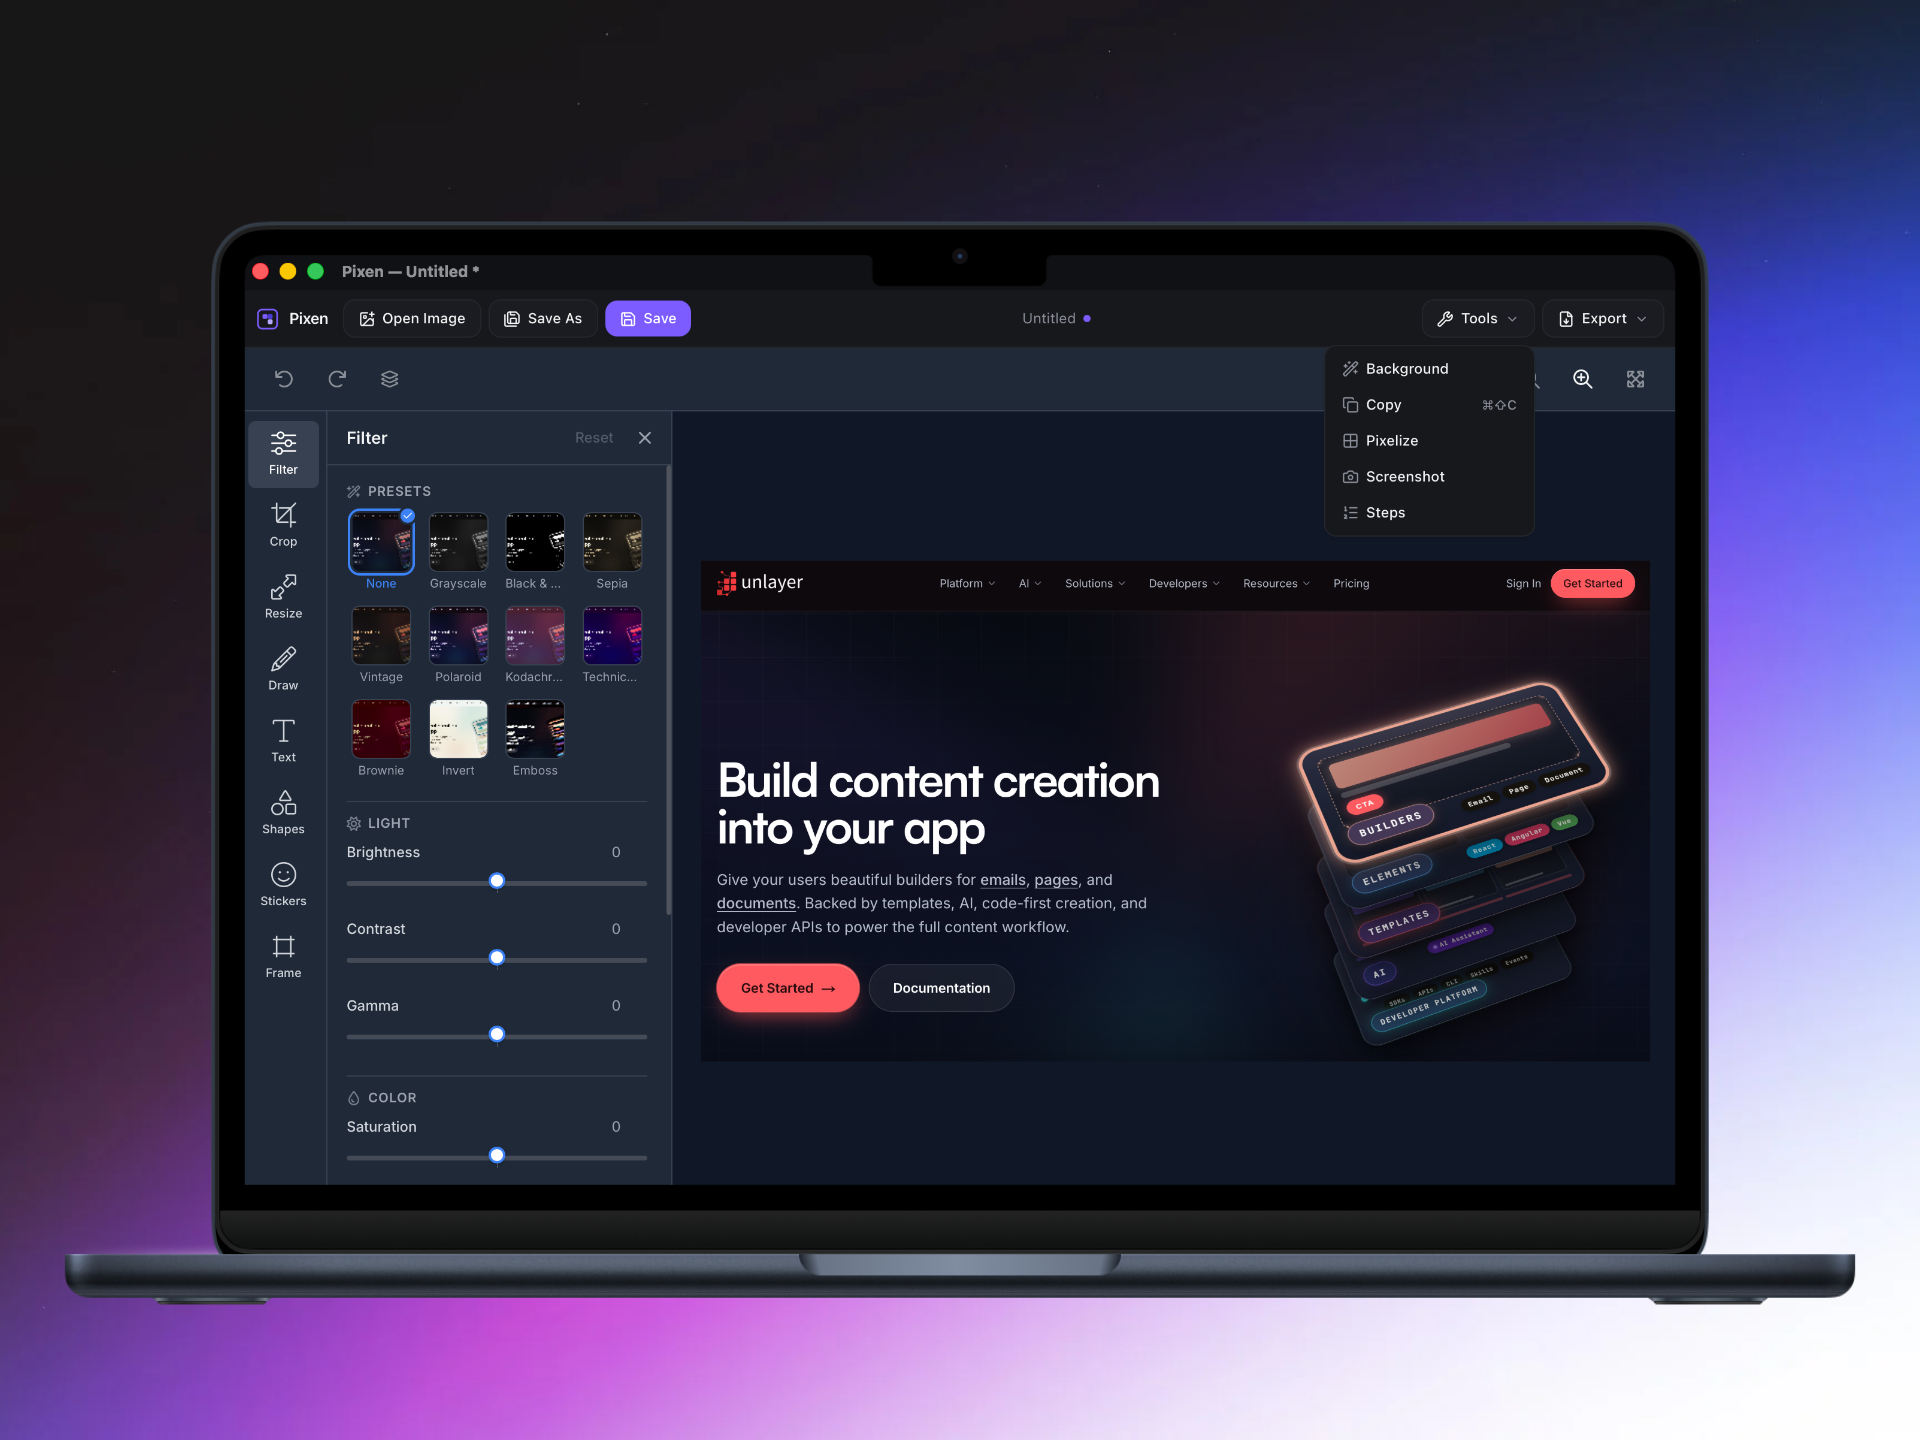
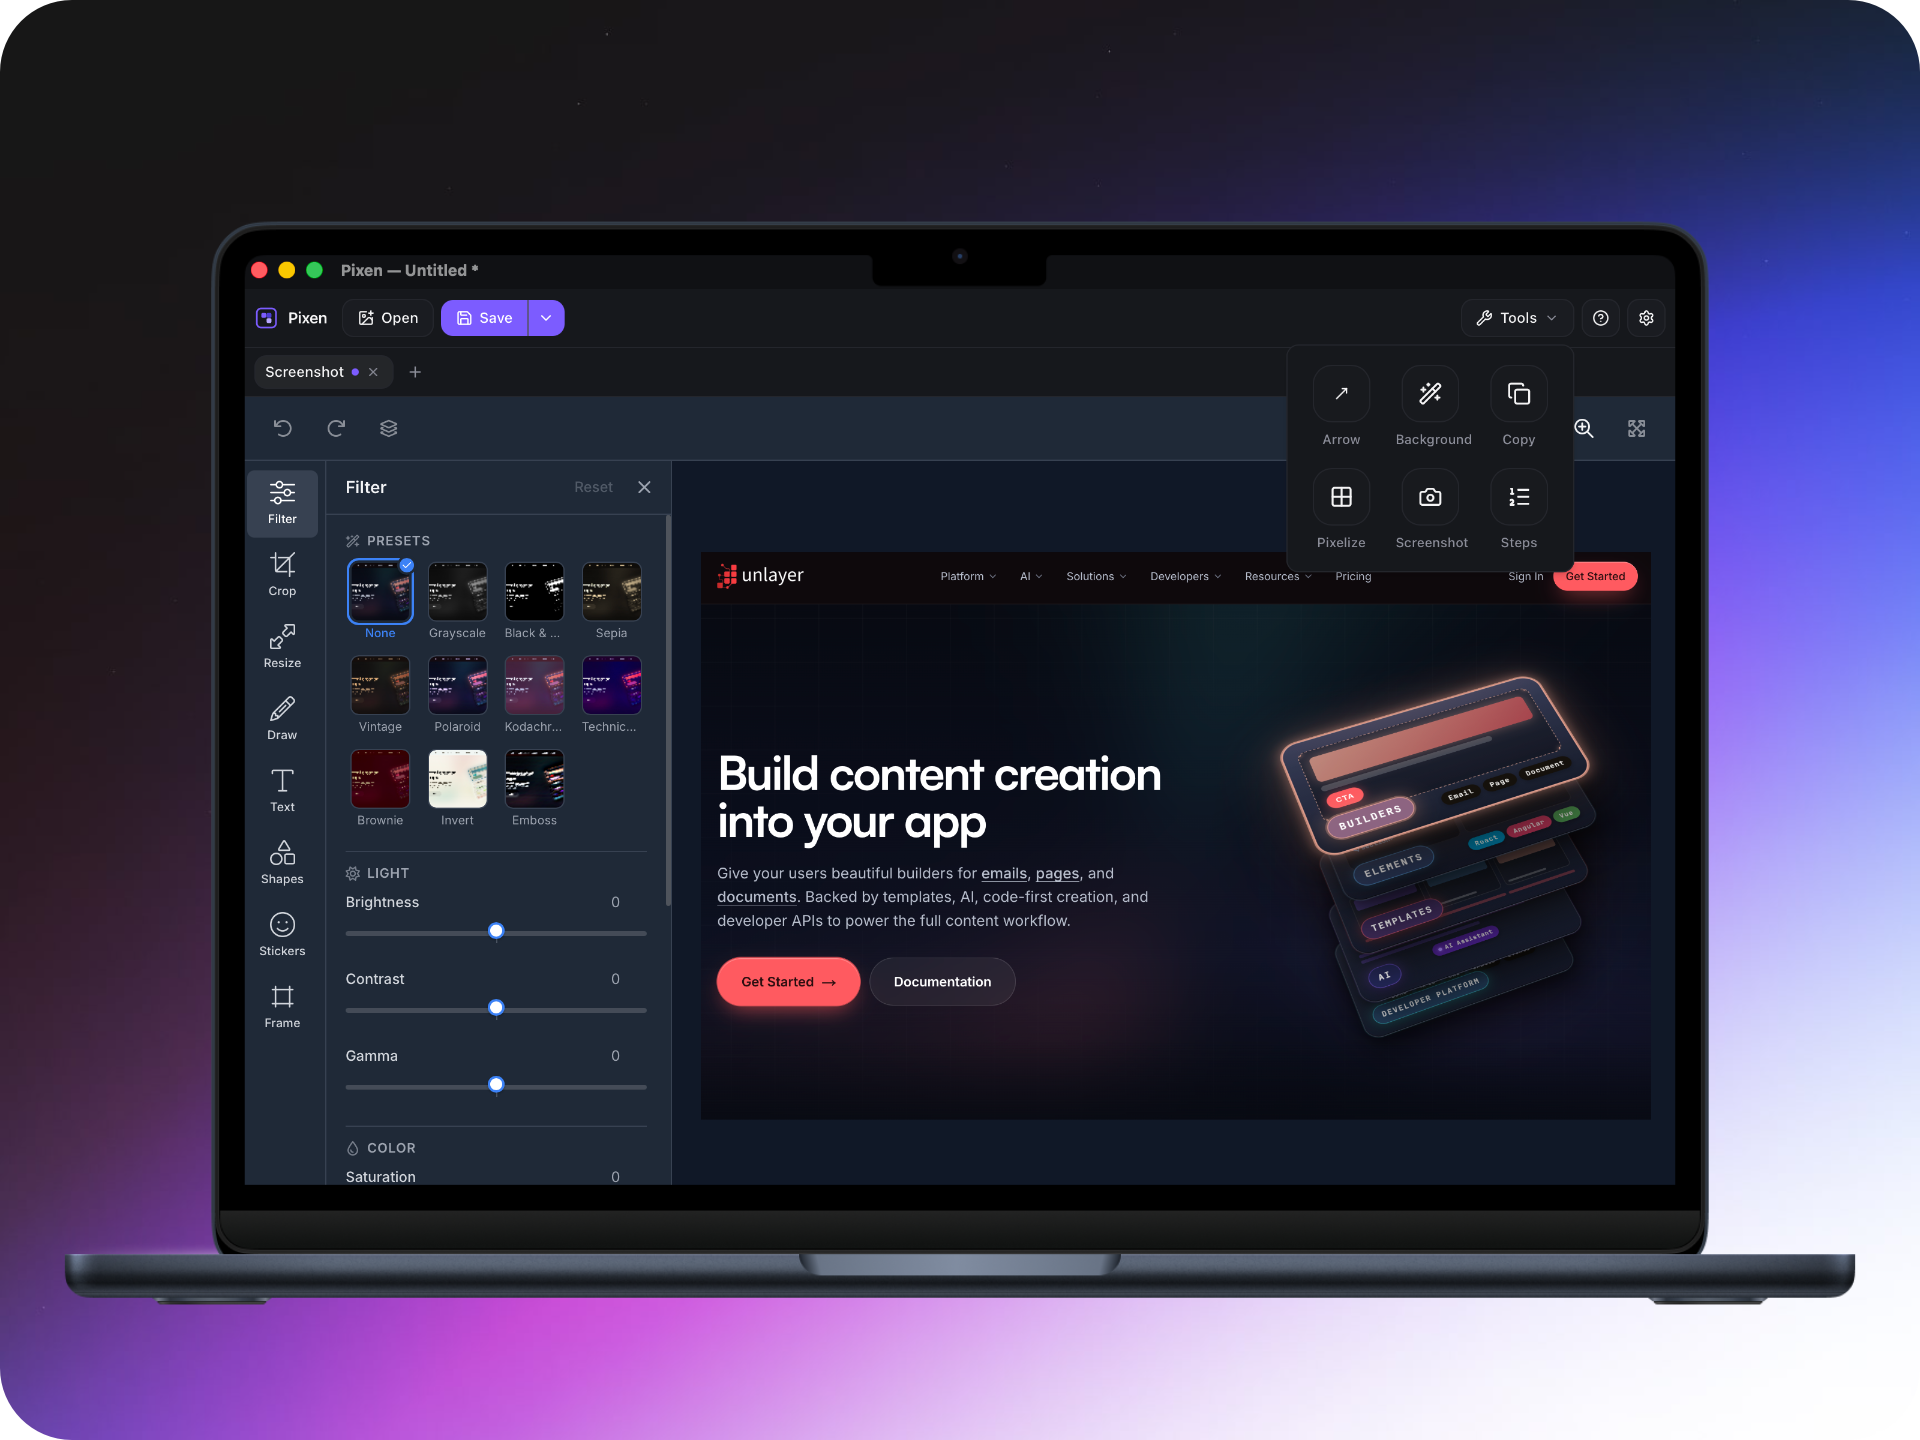
feat(pixen): enhance screenshot editing with new features and UI updates

diff --git a/src/components/apps/AppHero.tsx b/src/components/apps/AppHero.tsx
@@ -1,10 +1,17 @@
 import Image from 'next/image'
 
-import { DownloadIcon, ExternalLinkIcon, FileTextIcon, GithubIcon } from '@/components/shared/Icons'
+import {
+  DownloadIcon,
+  ExternalLinkIcon,
+  FileTextIcon,
+  GithubIcon,
+  StoreIcon,
+} from '@/components/shared/Icons'
 import { LinkButton } from '@/components/shared/LinkButton'
 import type { App } from '@/lib/apps'
 
 const linkIcons: Record<string, React.ElementType> = {
+  'App Store': StoreIcon,
   Download: DownloadIcon,
   Source: GithubIcon,
   'How it works': FileTextIcon,
@@ -43,7 +50,7 @@ export const AppHero = ({ app }: AppHeroProps) => {
           {app.platforms.map((platform) => (
             <Tag key={platform}>{platform}</Tag>
           ))}
-          <Tag>{app.isPaid ? 'Paid' : 'Free'}</Tag>
+          <Tag>{app.priceLabel ?? (app.isPaid ? 'Paid' : 'Free')}</Tag>
           {app.isMenuBarApp && <Tag>Menu bar</Tag>}
         </div>
 
@@ -51,7 +58,13 @@ export const AppHero = ({ app }: AppHeroProps) => {
       </div>
 
       {links.length > 0 && (
-        <div className="grid w-full grid-cols-2 gap-4 sm:grid-cols-3">
+        <div
+          className={
+            links.length >= 4
+              ? 'grid w-full grid-cols-2 gap-4'
+              : 'grid w-full grid-cols-2 gap-4 sm:grid-cols-3'
+          }
+        >
           {links.map(([title, href]) => {
             const Icon = linkIcons[title] ?? ExternalLinkIcon
 
@@ -66,6 +79,10 @@ export const AppHero = ({ app }: AppHeroProps) => {
             )
           })}
         </div>
+      )}
+
+      {app.priceNote && (
+        <p className="max-w-md text-sm text-balance text-muted-foreground">{app.priceNote}</p>
       )}
     </div>
   )

diff --git a/src/styles/prose.css b/src/styles/prose.css
@@ -48,6 +48,11 @@
   font-size: 0.9em;
 }
 
+.prose img {
+  border: 1px solid var(--border);
+  border-radius: var(--radius-xl);
+}
+
 /* GitHub-style alerts from remark-github-blockquote-alert. */
 .prose .markdown-alert {
   background-color: var(--muted);

diff --git a/src/lib/apps.ts b/src/lib/apps.ts
@@ -12,6 +12,8 @@ export interface AppFrontmatter {
   platforms: string[]
   requirement?: string
   isPaid?: boolean
+  priceLabel?: string
+  priceNote?: string
   isMenuBarApp?: boolean
   repoUrl?: string
   mainLinks?: Record<string, string>

diff --git a/src/components/shared/Icons.tsx b/src/components/shared/Icons.tsx
@@ -8,6 +8,7 @@ import {
   MailIcon,
   QuoteIcon,
   SendIcon,
+  StoreIcon,
   XIcon,
 } from 'lucide-react'
 
@@ -96,6 +97,7 @@ export {
   MailIcon,
   QuoteIcon,
   SendIcon,
+  StoreIcon,
   XIcon,
   XTwitterIcon,
 }

diff --git a/src/content/apps/pixen.md b/src/content/apps/pixen.md
@@ -1,11 +1,12 @@
 ---
 title: Pixen
-subtitle: An open-source desktop image editor, ideal for screenshots
+subtitle: Capture, edit, and refine screenshots on your Mac.
 pubDate: '2026-08-29'
 platforms:
   - macOS
 requirement: Requires macOS 10.15 or later
-isPaid: false
+priceLabel: Paid or free
+priceNote: The App Store version is paid. The GitHub .dmg is free and unsigned.
 isMenuBarApp: true
 repoUrl: https://github.com/brenopolanski/pixen
 mainLinks:
@@ -15,7 +16,7 @@ links:
   'How it works': https://github.com/brenopolanski/pixen/blob/main/docs/how-it-works.md
 ---
 
-Crop, annotate, hide private information, and make quick edits. Pixen is a small desktop shell around the [Unlayer Image Editor](https://unlayer.com/image-editor), built with [Tauri](https://tauri.app). The editor does the editing. Pixen owns the window, the native file dialogs, the encoding, and the keyboard shortcuts.
+Pixen is a lightweight screenshot editor for macOS. Capture your screen, make quick edits, annotate important details, hide private information, and export the result. The editing engine is the [Unlayer Image Editor](https://unlayer.com/image-editor), inside a [Tauri](https://tauri.app) shell that owns the window, file dialogs, encoding, and keyboard shortcuts.
 
 <br>
 
@@ -24,46 +25,90 @@ Crop, annotate, hide private information, and make quick edits. Pixen is a small
 
 <br>
 
-#### Highlights
+## Features
 
-- Open PNG, JPEG and WebP by dropping on the window, pasting from the clipboard, or through a native file dialog
-- Capture a region of the screen straight into the editor, from the toolbar or the menu bar
-- Hide private data — an address, a token, a face — behind a mosaic, by dragging a box over it
-- Number a screenshot for a step-by-step guide: click each spot and the badge counts itself up
-- Point at what matters: drag an arrow towards it, as many as the guide needs
-- Cut the background away from the subject with a local segmentation model, previewing before it is applied
-- Crop, resize, filters, draw, text, shapes, stickers and frames
-- Save as PNG, JPEG or WebP, or copy the result to the clipboard
-- Light and dark theme, remembered between launches
+### Capture screenshots
 
-#### Tabs
+Capture any region of your screen directly into Pixen, from the toolbar, the menu bar, or <kbd>⌘⇧9</kbd>.
 
-A clean tab is replaced; a dirty one stays and a new tab opens. The tab strip's **+** always opens another tab. The last ten images are reopened from **File → Open Recent**.
+![Capture screenshots with Pixen](/apps/pixen/demo-feature-screenshot.png)
+
+### Edit screenshots
+
+Crop, resize, apply filters, draw, add text, shapes, stickers, and frames.
+
+![Edit screenshots with Pixen](/apps/pixen/demo-feature-editor.png)
+
+### Annotate with arrows
+
+Point out exactly what matters. Draw arrows anywhere on the screenshot and add as many as you need.
+
+![Add arrows to screenshots](/apps/pixen/demo-feature-arrows.png)
+
+### Add numbered steps
+
+Create step-by-step guides on the screenshot. Click each location and Pixen numbers the markers.
+
+![Add numbered steps to screenshots](/apps/pixen/demo-feature-numbered-steps.png)
+
+### Hide private information
+
+Pixelate addresses, tokens, faces, and other private data by dragging a box over it.
+
+![Pixelate private information](/apps/pixen/demo-feature-pixelize.png)
+
+### Remove backgrounds
+
+Remove the background with a local segmentation model. The result is previewed before it is applied, and the image never leaves your Mac.
+
+![Remove image backgrounds](/apps/pixen/feature-background-removal.png)
+
+### Menu bar
+
+Pixen stays in the Dock and adds a menu bar item. Left-click it to capture. Right-click it to start at login, open About, or quit, without leaving the app you are in.
+
+### Recent images
+
+Reopen the last ten images from **File → Open Recent**.
+
+### Tabs
+
+Work on more than one image. A clean tab is replaced when you open something new. A modified tab stays, and Pixen opens another one beside it.
+
+### Light and dark mode
+
+Choose light or dark in Settings. Pixen's chrome and the image editor follow that choice, and it is remembered between launches.
+
+### Export
+
+Save as PNG, JPEG, or WebP. <kbd>⌘S</kbd> saves, <kbd>⌘⇧S</kbd> saves a new copy. Pixen asks where to write the first time and reuses that destination afterwards.
+
+### Clipboard
+
+Copy the edited screenshot to the system clipboard with <kbd>⌘⇧C</kbd>.
 
 ---
 
 ## Tips
 
-### First launch
+### GitHub build
 
-Builds are unsigned, so macOS will not open the app on a double-click. Right-click the app → **Open**, then confirm once. After that it launches normally.
+The download from GitHub is unsigned, so macOS blocks the first double-click. Right-click the app → **Open**, then confirm once. The App Store version does not need this.
 
 ### Internet on first run
 
-Pixen loads the editor engine from `cdn.unlayer.com`, so the first launch needs an internet connection.
+Pixen loads the editor engine from `cdn.unlayer.com`, so the first launch needs an internet connection. Saving, screenshots, and the clipboard stay on your Mac after that.
 
 ### Menu bar
 
-Pixen keeps its Dock icon and editor window and adds a menu bar item next to them. Left-click it to capture, right-click it for the menu.
+| Item              | Action                              |
+| ----------------- | ----------------------------------- |
+| `Take Screenshot` | Capture into a tab (<kbd>⌘⇧9</kbd>) |
+| `Start at Login`  | Toggle launch at login              |
+| `About Pixen`     | Open the About window               |
+| `Quit Pixen`      | Quit while guarding unsaved work    |
 
-| Item              | Action                                      |
-| ----------------- | ------------------------------------------- |
-| `Take Screenshot` | Capture into a tab (<kbd>⌘⇧9</kbd>)         |
-| `Start at Login`  | Toggle launch at login (checked when on)    |
-| `About Pixen`     | Open the About window                       |
-| `Quit Pixen`      | Quit, still asking about unsaved work first |
-
-A capture from the tray goes through the same session as one from the toolbar, so it replaces a clean tab, opens a new one next to a dirty one, and asks before dropping unapplied marks.
+A capture from the menu bar uses the same session as one from the window, so it replaces a clean tab and opens a new one next to a dirty one.
 
 ### Keyboard shortcuts
 
@@ -74,26 +119,36 @@ A capture from the tray goes through the same session as one from the toolbar, s
 | <kbd>⌘O</kbd>  | Open an image                   |
 | <kbd>⌘V</kbd>  | Open the image on the clipboard |
 | <kbd>⌘⇧C</kbd> | Copy the image to the clipboard |
-| <kbd>⌘⇧9</kbd> | Take a screenshot, from any app |
+| <kbd>⌘⇧A</kbd> | Arrow                           |
+| <kbd>⌘⇧P</kbd> | Pixelize                        |
+| <kbd>⌘⇧N</kbd> | Numbered steps                  |
+| <kbd>⌘⇧B</kbd> | Remove background               |
+| <kbd>⌘⇧9</kbd> | Take a screenshot from any app  |
+| <kbd>⌘,</kbd>  | Open Settings                   |
+| <kbd>⌘?</kbd>  | Open keyboard shortcuts         |
 | <kbd>⌘Q</kbd>  | Quit, guarding unsaved work     |
+| <kbd>⌘W</kbd>  | Close the About window          |
+| `Escape`       | Close the About window          |
+
+<kbd>⌘⇧9</kbd> is registered system-wide, so it can capture while another app is in front. Change it in **Settings → Capture screenshot**. A custom shortcut must include <kbd>⌘</kbd>, and Pixen rejects ones it already uses, including Save, Copy Image, the tool shortcuts, and Quit.
 
 ## Frequently Asked Questions {#faq}
 
 #### Is it free?
 
-Yes. Pixen is open source under the MIT license. The [source is on GitHub](https://github.com/brenopolanski/pixen).
+The GitHub release is free. It is an unsigned `.dmg`. The App Store version is paid.
 
 #### macOS says the app is damaged or from an unidentified developer {#gatekeeper}
 
-Builds are unsigned, so Gatekeeper blocks the first double-click. Right-click the app → **Open** and confirm. This is a one-time step.
+That is Gatekeeper on the unsigned GitHub build. Right-click the app → **Open** and confirm. This is a one-time step. The App Store version is signed and opens normally.
 
 #### Does it work offline?
 
-Mostly. The editor engine is loaded from `cdn.unlayer.com` on first launch, so that run needs a connection. Saving, screenshots and the clipboard are all local.
+Mostly. The editor engine is loaded from `cdn.unlayer.com` on first launch, so that run needs a connection. Saving, screenshots, and the clipboard are all local.
 
 #### Where do my images go? {#privacy}
 
-Nowhere. Pixen reads and writes files on your Mac. There is no account, no upload and no telemetry. Background removal runs a local model, so that image never leaves the machine either.
+Nowhere. Pixen reads and writes files on your Mac. There is no account, no upload, and no telemetry. Background removal runs a local model, so that image never leaves the machine either.
 
 #### Why does `⌘⇧9` ask for Accessibility permission? {#accessibility}
 
@@ -105,7 +160,7 @@ No. Those tools flatten the image, the same way a save does, so the editor's und
 
 #### Why isn't drag and drop a normal web drop zone? {#drop}
 
-Tauri intercepts file drops before the webview sees them, so `dragover` and `drop` never fire. Pixen listens to the window's drop event instead and takes the first PNG, JPEG or WebP. See [how it works](https://github.com/brenopolanski/pixen/blob/main/docs/how-it-works.md).
+Tauri intercepts file drops before the webview sees them, so `dragover` and `drop` never fire. Pixen listens to the window's drop event instead and takes the first PNG, JPEG, or WebP. See [how it works](https://github.com/brenopolanski/pixen/blob/main/docs/how-it-works.md).
 
 #### Can you support Windows or Linux? {#platforms}
 
@@ -113,7 +168,7 @@ Not today. Screen capture goes through macOS's own `screencapture`, and the menu
 
 #### What is the license? {#license}
 
-Pixen's own source is MIT. Background removal uses [`@imgly/background-removal`](https://github.com/imgly/background-removal-js), which is **AGPL-3.0** — those terms apply to anyone distributing a build that includes it. IMG.LY sells a commercial licence for use that AGPL does not cover. Nothing else in the dependency tree is copyleft.
+Pixen is licensed under **AGPL-3.0**. Third-party pieces keep their own terms: [`@unlayer/react-image-editor`](https://github.com/unlayer/react-image-editor) is MIT, and [`@imgly/background-removal`](https://github.com/imgly/background-removal-js) is AGPL-3.0.
 
 #### How is it built? {#stack}
 
